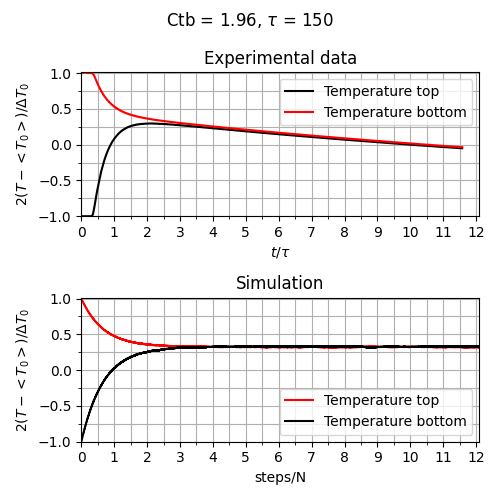
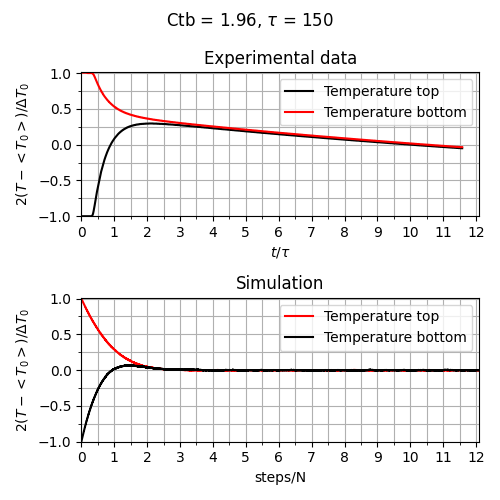
progress

diff --git a/Obligs/Oblig 1/diffusion_with_loss.py b/Obligs/Oblig 1/diffusion_with_loss.py
@@ -17,14 +17,8 @@ Tb = np.zeros(nstep, float)
 Tt[0] = 1  # Initial temperature top
 Tb[0] = -1  # Initial temperature bottom
 Tr = -1  # Room temperature
-dT_t0 = Tt[0] - Tr  # Initial temp diff between block and air
-dT_b0 = Tb[0] - Tr  # Initial temp diff between block and air
 
 for i in range(1, nstep):
-    # Heat loss to air
-    Tt[i] += Tr + np.exp(-i / tau_sim) * dT_t0
-    Tb[i] += Tr + np.exp(-i / tau_sim) * dT_b0
-
     r = 4 * np.random.rand(1, 1) - 2  # Random number between 2 and -2
     DT = Tt[i - 1] - Tb[i - 1]  # Temperature difference top to bottom
     if r < DT:
@@ -35,6 +29,13 @@ for i in range(1, nstep):
         # Move heat quanta from bottom to top
         Tt[i] = Tt[i - 1] + 1 / N
         Tb[i] = Tb[i - 1] - Ctb / N
+
+    # Heat loss to air
+    loss = np.exp(-i / (N * tau_sim))
+    # print(i/N, loss, Tt[i], Tb[i])
+    Tt[i] *= loss
+    Tb[i] *= loss
+    # print(i/N, loss, Tt[i], Tb[i])
 
 ### EXPERIMENTAL DATA
 D = np.loadtxt('metalblocks_lecture.txt', usecols=[0, 1, 2], unpack=True)
